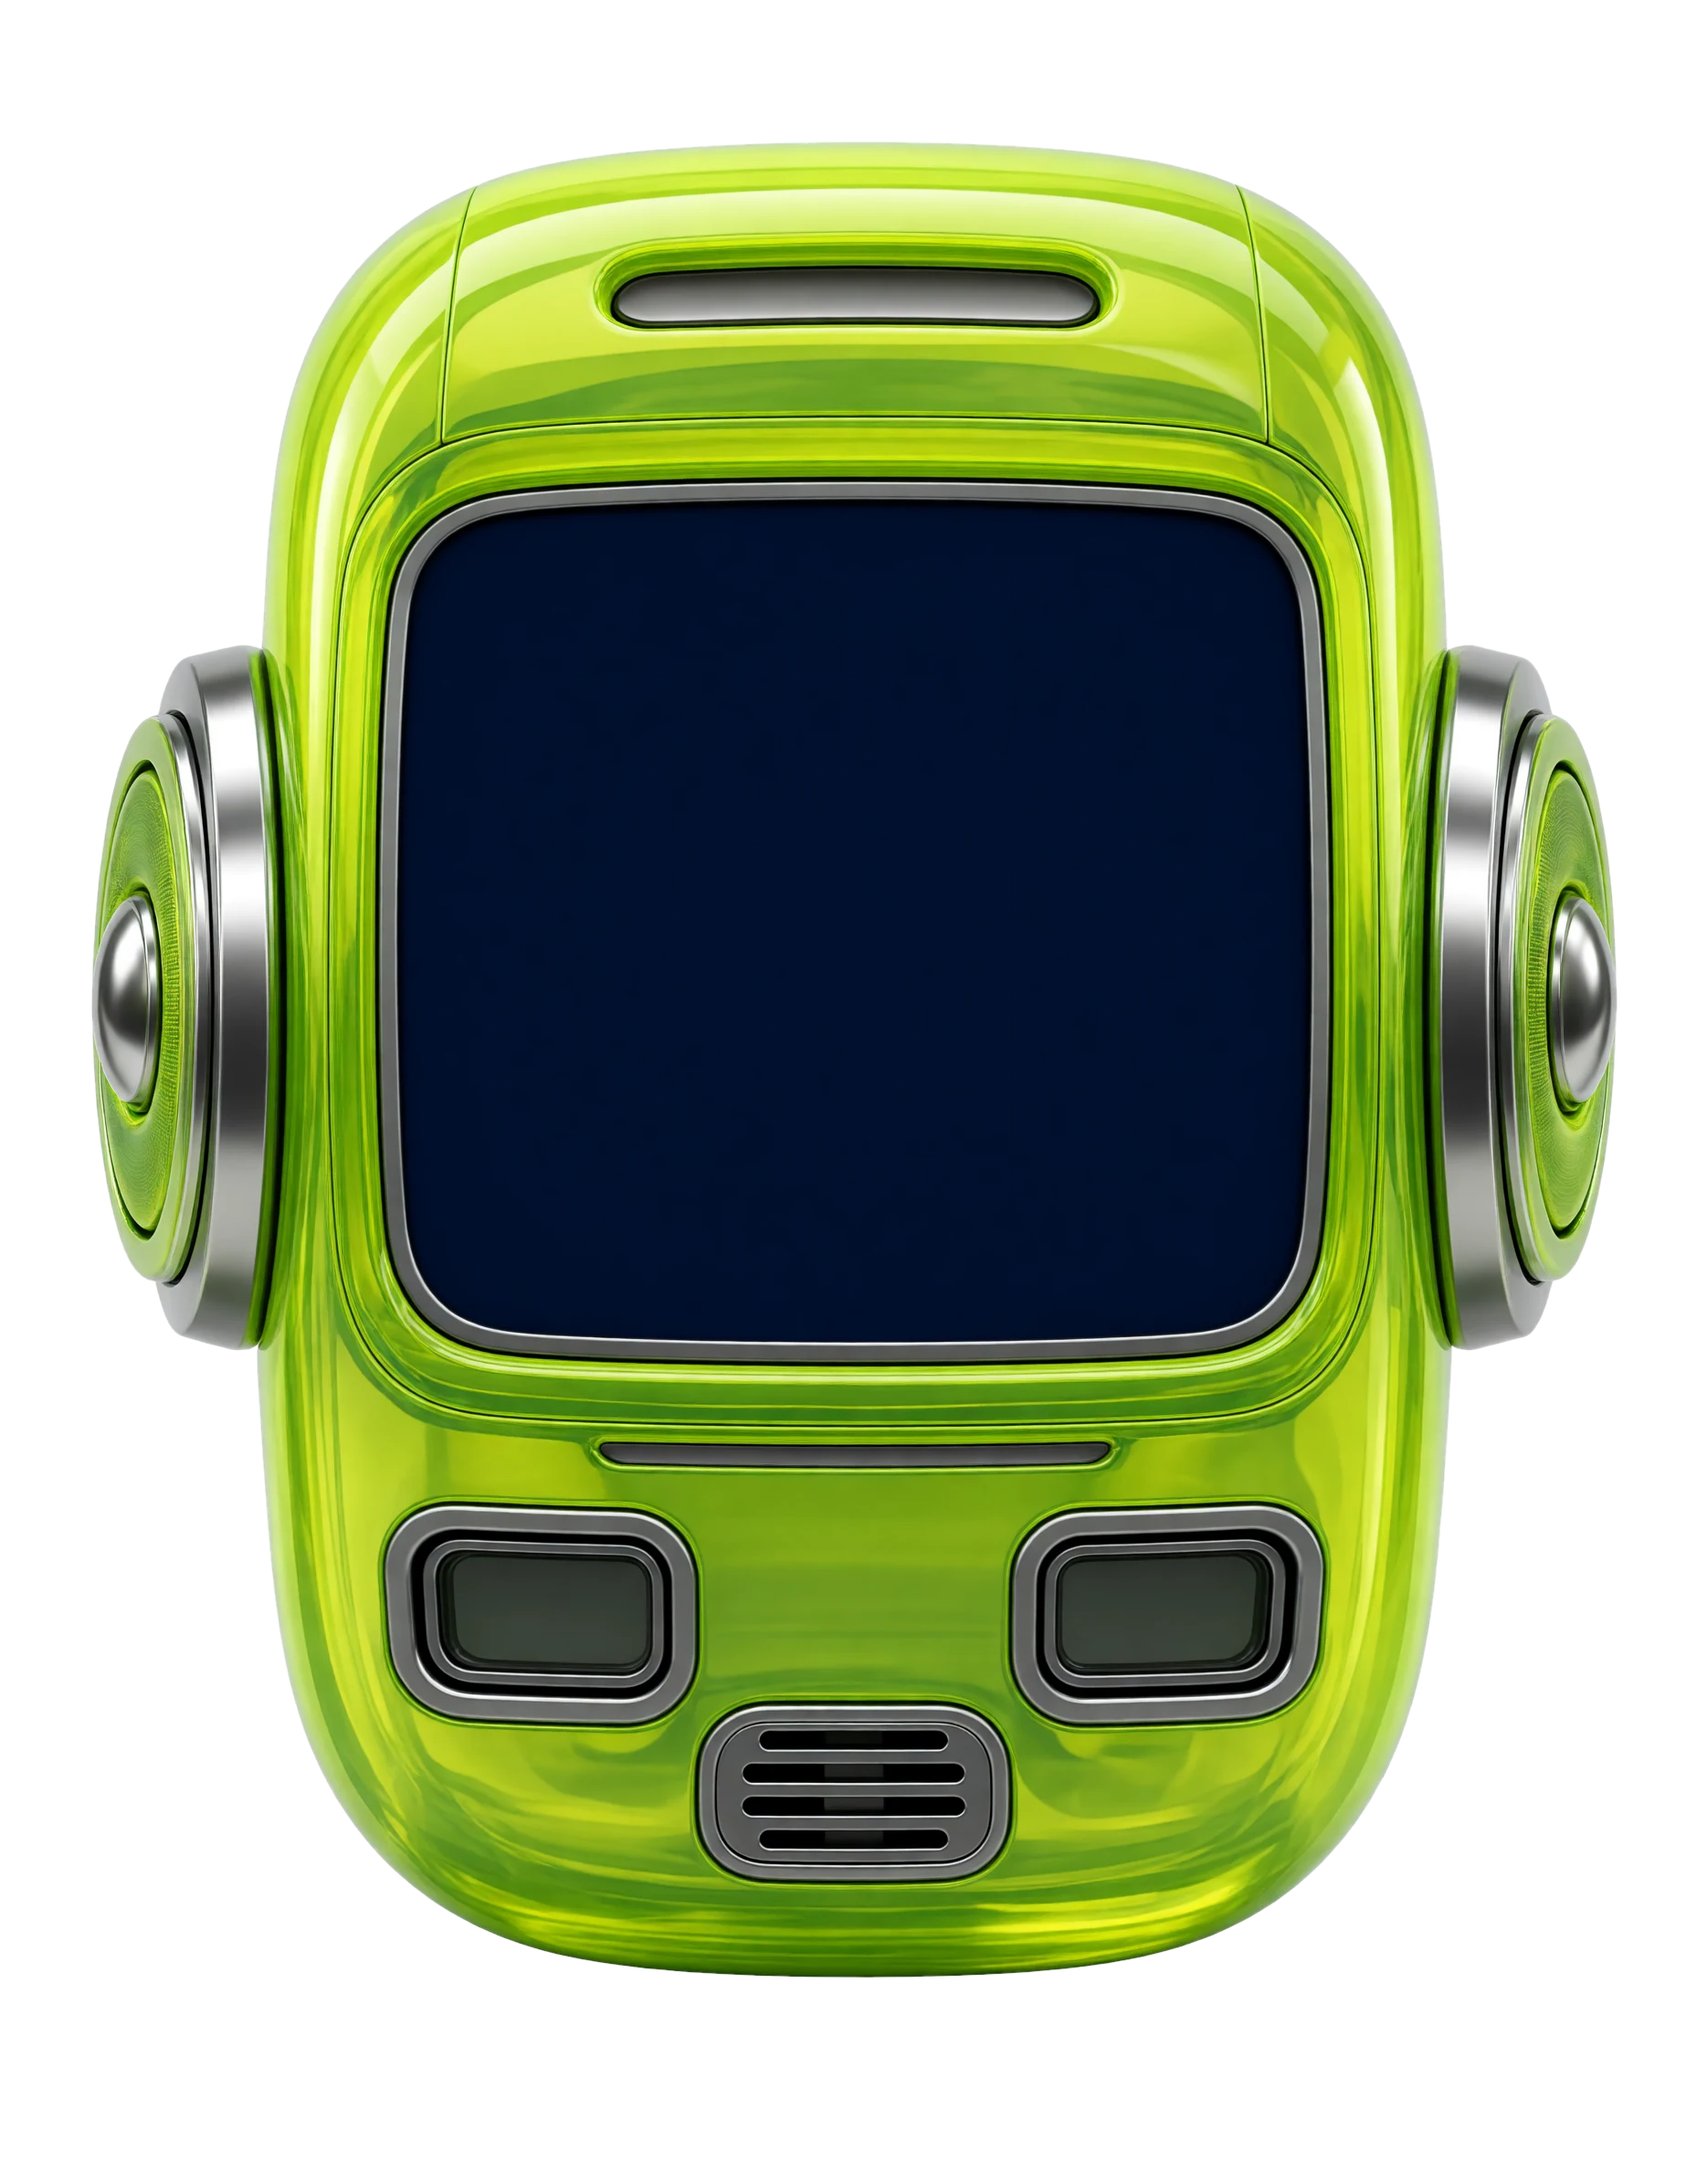
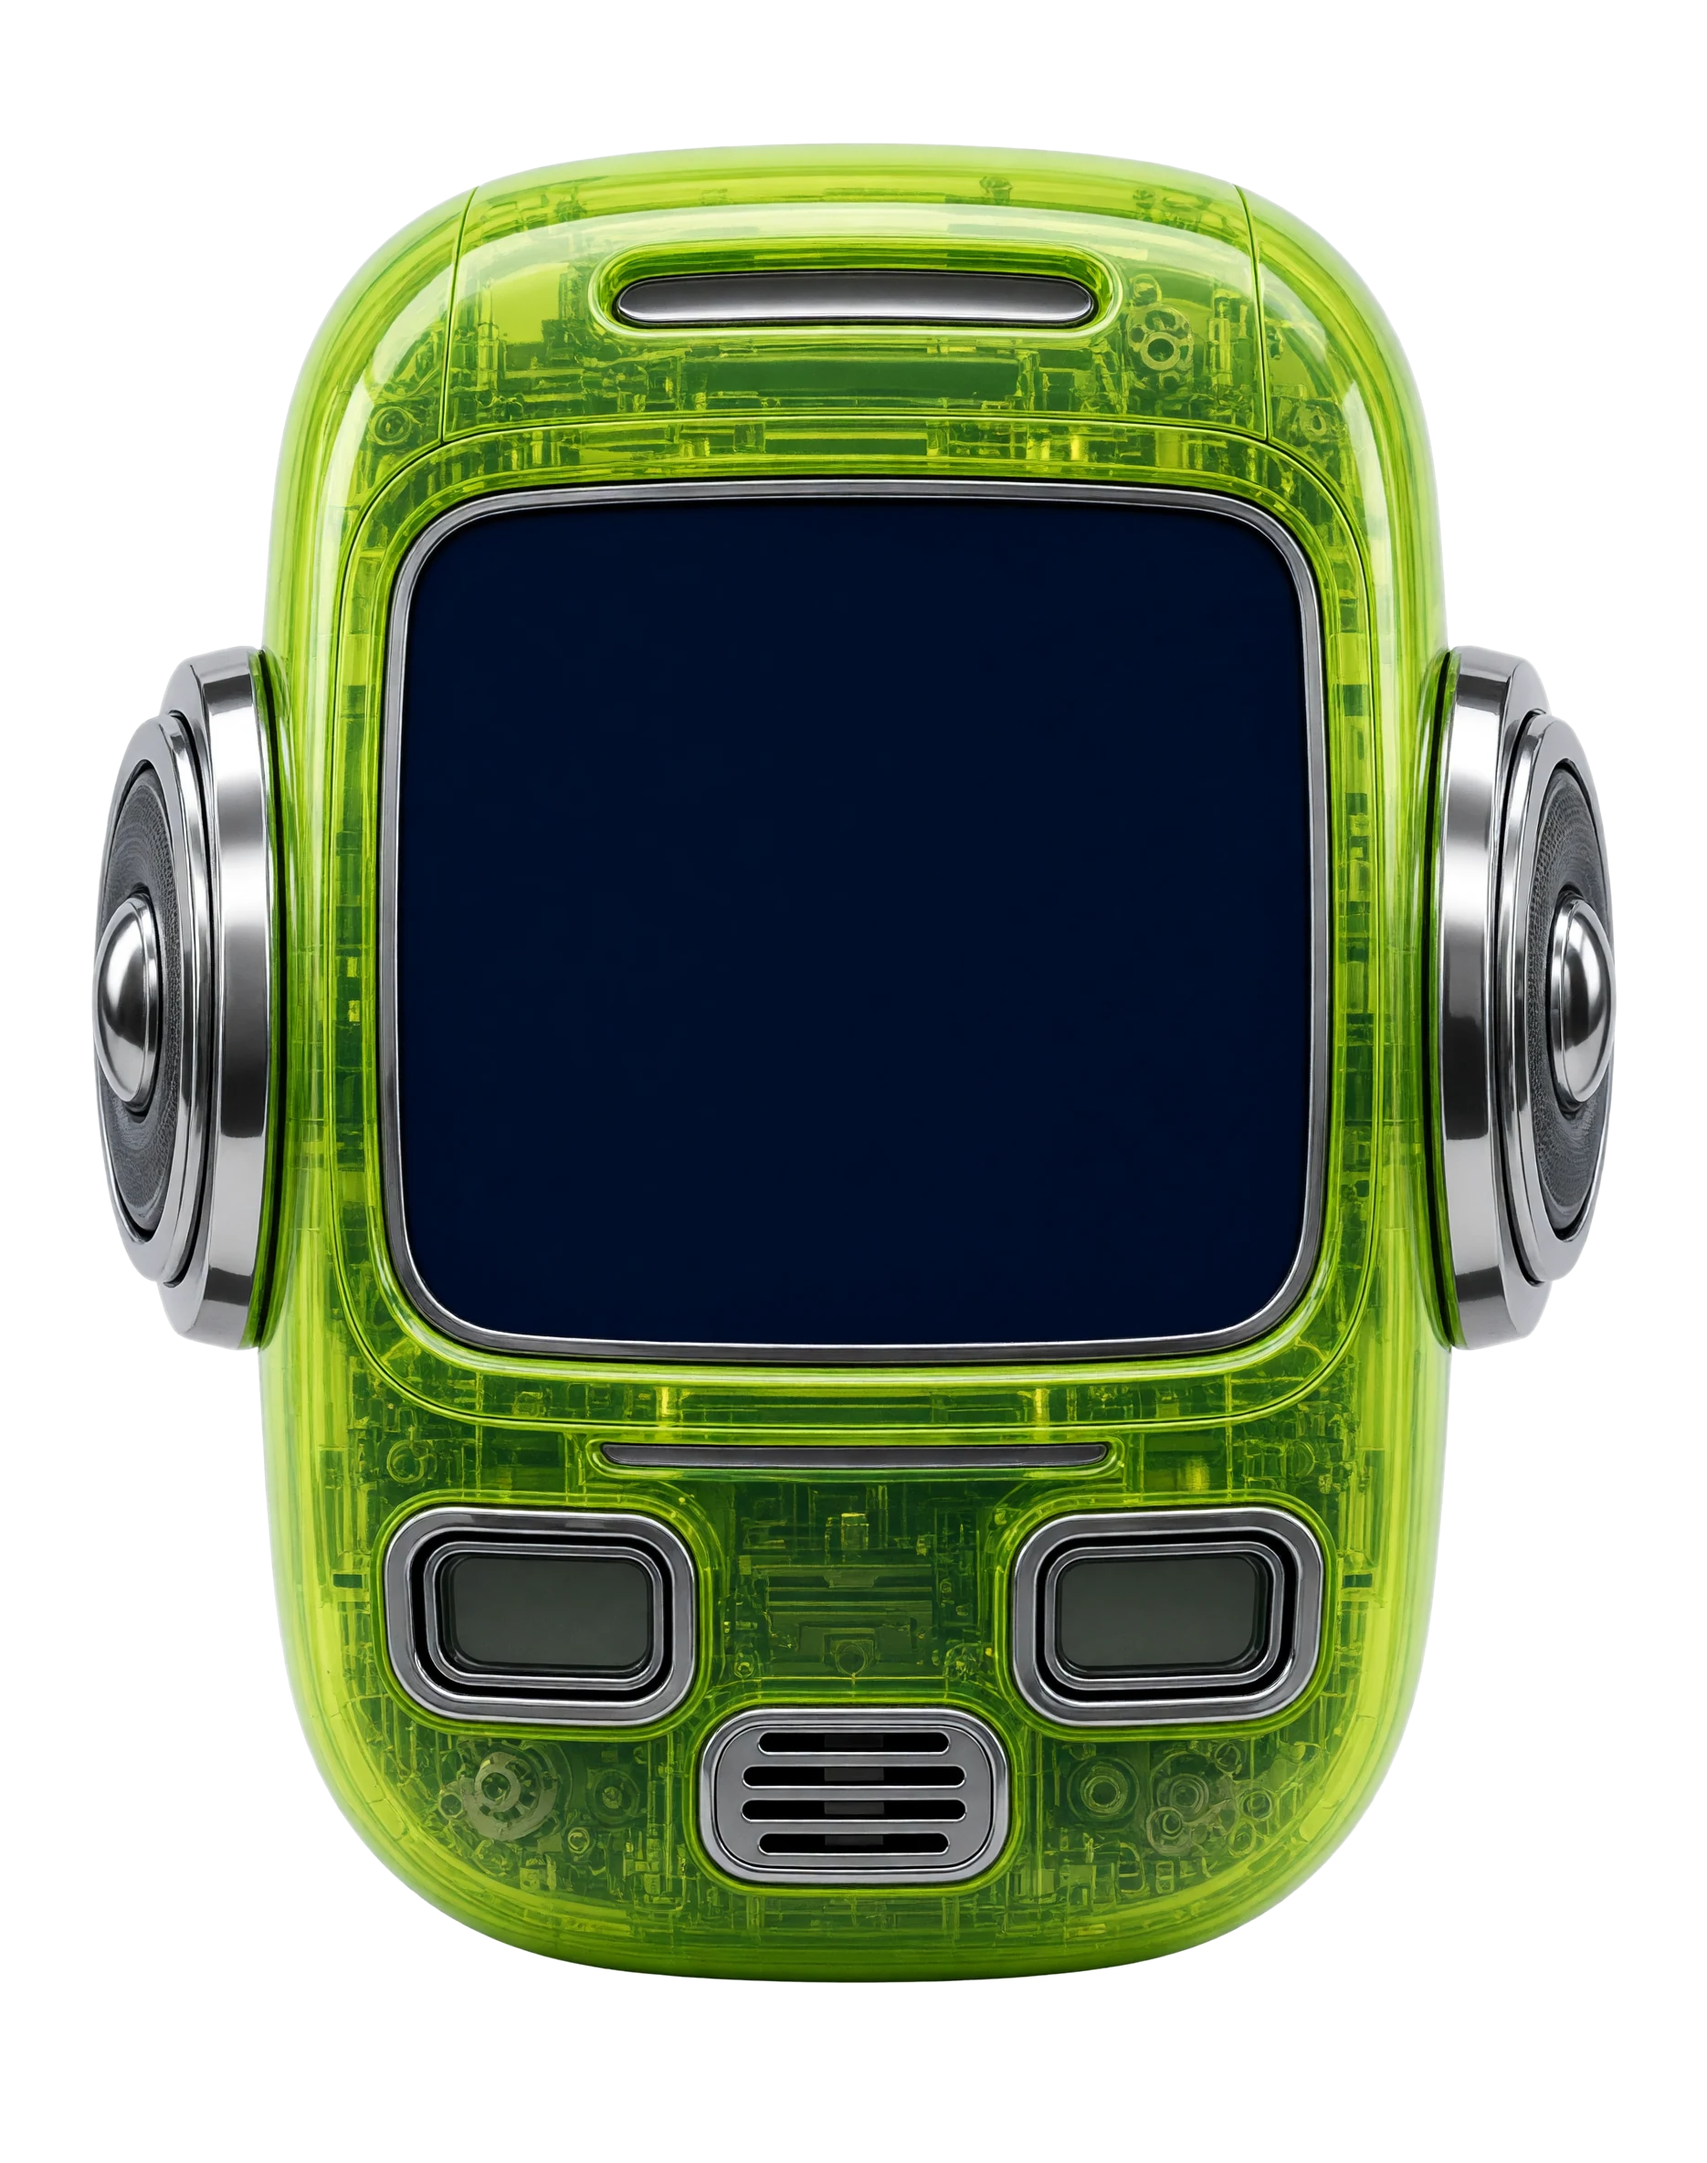
Headspace: Y2K con circuitos y sin el dibujo SVG

Changed region(s): [[0.031, 0.0625, 0.962, 0.9375]]

diff --git a/web/headspace.html b/web/headspace.html
@@ -14,7 +14,7 @@
   html, body { margin: 0; height: 100%; background: #000; overflow: hidden; font-family: "Fredoka", "Trebuchet MS", sans-serif; color: #fff; }
   #fondo { position: fixed; inset: 0; width: 100%; height: 100%; }
 
-  /* El cuerpo (dibujo o imagen) y todo lo de encima se ubica en % de esta caja */
+  /* El cuerpo (imagen) y todo lo de encima se ubica en % de esta caja */
   #cabeza { position: absolute; left: 50%; top: calc(50% - 34px); transform: translate(-50%, -50%);
     height: min(calc(100vh - 110px), 100vw * 760 / 600 * .9); aspect-ratio: 600 / 760; container-type: size; }
   #cuerpo, #cuerpo > * { position: absolute; inset: 0; width: 100%; height: 100%; }
@@ -87,46 +87,6 @@
 <canvas id="fondo"></canvas>
 <div id="cabeza">
   <div id="cuerpo">
-    <svg id="dibujo" viewBox="0 0 600 760" xmlns="http://www.w3.org/2000/svg">
-      <defs>
-        <radialGradient id="piel" cx="50%" cy="28%" r="70%">
-          <stop offset="0" stop-color="#e6ff7a"/><stop offset=".45" stop-color="#8fd61c"/>
-          <stop offset=".85" stop-color="#3f8a06"/><stop offset="1" stop-color="#245200"/>
-        </radialGradient>
-        <linearGradient id="cromo" x1="0" y1="0" x2="1" y2="0">
-          <stop offset="0" stop-color="#5e6a6e"/><stop offset=".35" stop-color="#f2f6f7"/>
-          <stop offset=".6" stop-color="#9aa6aa"/><stop offset="1" stop-color="#3c4649"/>
-        </linearGradient>
-        <radialGradient id="cono" cx="50%" cy="45%" r="55%">
-          <stop offset="0" stop-color="#d9e0e2"/><stop offset=".25" stop-color="#5b6467"/>
-          <stop offset=".6" stop-color="#2b3133"/><stop offset=".85" stop-color="#9aa5a8"/><stop offset="1" stop-color="#3a4245"/>
-        </radialGradient>
-        <radialGradient id="ojo" cx="50%" cy="40%" r="60%">
-          <stop offset="0" stop-color="#3a5a10"/><stop offset="1" stop-color="#0d2200"/>
-        </radialGradient>
-        <linearGradient id="vidrio" x1="0" y1="0" x2="0" y2="1">
-          <stop offset="0" stop-color="#fff" stop-opacity=".55"/><stop offset="1" stop-color="#fff" stop-opacity="0"/>
-        </linearGradient>
-      </defs>
-      <g id="oidoIzq">
-        <rect x="18" y="205" width="118" height="210" rx="56" fill="url(#cromo)" stroke="#1d2629" stroke-width="4"/>
-        <g class="cono" transform="translate(77 262)"><circle r="40" fill="url(#cono)"/><circle r="13" fill="#1a1f21"/></g>
-        <g class="cono" transform="translate(77 358)"><circle r="40" fill="url(#cono)"/><circle r="13" fill="#1a1f21"/></g>
-      </g>
-      <use href="#oidoIzq" transform="translate(600 0) scale(-1 1)"/>
-      <path d="M300 34 C440 34 528 120 532 252 C536 356 498 426 470 498 C436 590 386 704 300 726
-               C214 704 164 590 130 498 C102 426 64 356 68 252 C72 120 160 34 300 34 Z"
-            fill="url(#piel)" stroke="#1f4500" stroke-width="5"/>
-      <ellipse cx="300" cy="62" rx="105" ry="20" fill="url(#vidrio)" opacity=".7"/>
-      <rect x="178" y="92" width="244" height="58" rx="29" fill="#3d7a06" stroke="#1f4500" stroke-width="4"/>
-      <rect x="160" y="140" width="280" height="205" rx="30" fill="#2a5c02" stroke="#173a00" stroke-width="5"/>
-      <rect x="170" y="150" width="260" height="180" rx="24" fill="#05081f"/>
-      <rect x="172" y="330" width="256" height="50" rx="20" fill="#b5ea55" stroke="#1f4500" stroke-width="3"/>
-      <path d="M150 455 C195 420 250 430 272 462 C232 486 182 484 150 455 Z" fill="url(#ojo)" stroke="#173a00" stroke-width="4"/>
-      <path d="M450 455 C405 420 350 430 328 462 C368 486 418 484 450 455 Z" fill="url(#ojo)" stroke="#173a00" stroke-width="4"/>
-      <path d="M300 478 C292 520 286 548 300 560 C314 548 308 520 300 478 Z" fill="#4e9a0a" opacity=".7"/>
-      <rect x="222" y="595" width="156" height="34" rx="17" fill="#173a00"/>
-    </svg>
   </div>
   <div id="pantalla" class="zona">
     <canvas id="visor"></canvas>
@@ -156,18 +116,13 @@ const raiz = document.documentElement.style;
 const guardar = (k, v) => { try { localStorage.setItem(k, v); } catch (e) {} };
 const leer = (k) => { try { return localStorage.getItem(k); } catch (e) { return null; } };
 
-// Zonas de las imágenes de video maker (las dos tienen la misma composición; pantalla medida en píxeles).
+// Zonas de las imágenes de video maker (misma composición en las dos; pantalla y ojos medidos en píxeles).
 const ZONAS_IMAGEN = {
   pantalla: [23.4, 23.4, 53.4, 38.6], botones: [33, 9.8, 34, 6.6], barra: [33, 64.6, 34, 4.2],
   ojos: [[24.5, 70.8, 15, 7.4], [61, 70.8, 15, 7.4]], boca: [43, 80.3, 14, 5],
   parlantes: [[5.3, 29.8, 11.4, 32.4], [83.3, 29.8, 11.4, 32.4]] };
 // Cada cuerpo dice dónde van las piezas, en % de la caja [x, y, ancho, alto].
-// Las imágenes se ofrecen solo si existen y tienen sus zonas medidas.
 const CUERPOS = {
-  "Dibujo": { zonas: {
-    pantalla: [28.3, 19.7, 43.4, 23.7], botones: [29.7, 12.1, 40.7, 7.6], barra: [28.7, 43.4, 42.7, 6.6],
-    ojos: [[25, 56.6, 20.3, 7.4], [54.7, 56.6, 20.3, 7.4]], boca: [37, 78.3, 26, 4.5],
-    parlantes: [[6.2, 29.2, 13.3, 10.5], [6.2, 41.8, 13.3, 10.5], [80.5, 29.2, 13.3, 10.5], [80.5, 41.8, 13.3, 10.5]] } },
   "Y2K": { imagen: "img/headspace/y2k.webp", zonas: ZONAS_IMAGEN },
   "Gel": { imagen: "img/headspace/gel.webp", zonas: ZONAS_IMAGEN },
 };
@@ -183,11 +138,9 @@ let color = COLORES.Lima, ojos = [], anillos = [];
 function ubicar(el, [x, y, w, h]) { Object.assign(el.style, { left: x + "%", top: y + "%", width: w + "%", height: h + "%" }); }
 function usarCuerpo(nombre) {
   const c = CUERPOS[nombre];
-  if (!c || !c.zonas) return;
-  const cuerpo = $("cuerpo");
-  $("dibujo").style.display = c.imagen ? "none" : "";
-  cuerpo.querySelectorAll("img").forEach(i => i.remove());
-  if (c.imagen) { const img = new Image(); img.src = c.imagen; img.alt = ""; cuerpo.appendChild(img); }
+  if (!c) return;
+  const img = new Image(); img.src = c.imagen; img.alt = "";
+  $("cuerpo").replaceChildren(img);
   const z = c.zonas;
   ubicar($("pantalla"), z.pantalla); ubicar($("botones"), z.botones); ubicar($("zonaBarra"), z.barra); ubicar($("boca"), z.boca);
   [...ojos, ...anillos].forEach(e => e.remove());
@@ -213,13 +166,8 @@ for (const [nombre, c] of Object.entries(COLORES)) {
   $("colores").appendChild(b);
 }
 for (const [nombre, c] of Object.entries(CUERPOS)) {
-  if (!c.zonas) continue;
   const b = document.createElement("button");
   b.className = "gel"; b.dataset.c = nombre; b.textContent = nombre; b.onclick = () => usarCuerpo(nombre);
-  if (c.imagen) {   // la imagen se ofrece solo si de verdad está en la carpeta
-    b.hidden = true;
-    const prueba = new Image(); prueba.onload = () => { b.hidden = false; }; prueba.src = c.imagen;
-  }
   $("cuerpos").appendChild(b);
 }
 for (let i = 0; i < 12; i++) { const s = document.createElement("i"); if (i > 8) s.className = "alto"; $("boca").appendChild(s); }
@@ -228,11 +176,7 @@ $("caratula").onload = () => { $("caratula").style.visibility = "visible"; };
 
 usarColor(COLORES[leer("color-headspace")] ? leer("color-headspace") : "Lima");
 const elegido = leer("cuerpo-headspace");
-const inicial = CUERPOS[elegido] && CUERPOS[elegido].zonas ? elegido : "Y2K";
-usarCuerpo(inicial);
-if (CUERPOS[inicial].imagen) {   // si la imagen ya no está, volver al dibujo
-  const prueba = new Image(); prueba.onerror = () => usarCuerpo("Dibujo"); prueba.src = CUERPOS[inicial].imagen;
-}
+usarCuerpo(CUERPOS[elegido] ? elegido : "Y2K");
 
 // ---- Fondo: burbujas que suben con el bajo y destellos con los agudos ----
 const fondo = $("fondo"), fg = fondo.getContext("2d");
@@ -297,7 +241,7 @@ function dibujarPantalla(d) {
 }
 
 // ---- Cada cuadro ----
-const conos = document.querySelectorAll("#dibujo .cono"), segBoca = $("boca").children;
+const segBoca = $("boca").children;
 R.cadaCuadro((t) => {
   const d = R.espectro();
   const bajo = R.energia(d, 1, 8), medio = R.energia(d, 8, 60), agudo = R.energia(d, 60, 200);
@@ -306,8 +250,6 @@ R.cadaCuadro((t) => {
   raiz.setProperty("--p", (R.progreso() * 100).toFixed(2) + "%");
   ojos.forEach(o => { o.style.opacity = (0.12 + medio * 1.3).toFixed(2); });
   anillos.forEach(a => { a.style.opacity = Math.min(1, bajo * 1.3).toFixed(2); a.style.transform = `scale(${(0.85 + bajo * 0.3).toFixed(3)})`; });
-  const esc = (1 + bajo * 0.16).toFixed(3);
-  conos.forEach(c => c.setAttribute("transform", c.getAttribute("transform").split(" scale")[0] + ` scale(${esc})`));
   const encendidos = Math.round(medio * 18);
   for (let i = 0; i < segBoca.length; i++) segBoca[i].classList.toggle("on", i < encendidos);
 });

diff --git a/PLAN.md b/PLAN.md
@@ -37,7 +37,7 @@ Este plan se ajusta según prioridades: lo de arriba se hace primero.
 - [ ] Cada plantilla declara **ranuras** de imagen (fondo, cabeza, botones…) con su
       tamaño recomendado. *(Headspace ya funciona así: el cuerpo es el dibujo o una imagen,
       y la pantalla, botones, ojos, boca y parlantes se ubican por zonas en %.)*
-- [x] Headspace: cuerpos "Y2K" y "Gel" de video maker (WebP en `web/img/headspace/`, PNG originales en `arte/`).
+- [x] Headspace: cuerpos "Y2K" (translúcido con circuitos, elegido por José) y "Gel" de video maker; sin el dibujo SVG (WebP en `web/img/headspace/`, PNG originales en `arte/`).
 - [ ] Headspace: evaluar un cuerpo distinto por color (~0,09 USD por imagen con video maker).
 - [ ] Subir una imagen a una ranura desde la app (sin tocar carpetas ni código).
       Si la ranura está vacía, se usa el dibujo original.
